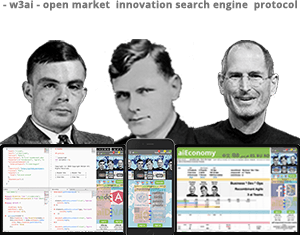
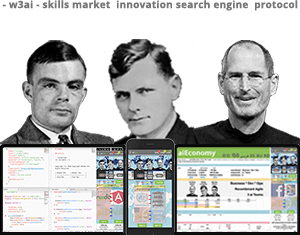
changed aiEconomy title to w3ai skills market innovation protocol

Changed region(s): [[0.03, 0.0, 1.0, 0.0596]]

diff --git a/src/app/welcome/welcome.component.html b/src/app/welcome/welcome.component.html
@@ -59,8 +59,8 @@ recombinant &nbsp; teams &nbsp; market
                 <ol class="my-bot-mob-tops" fxLayout="row" fxLayoutAlign="center center" fxLayoutGap="10px">
                     <li class="rank">projects<br><img class="rank-flag" src="/assets/flags/us.png"><br>247</li>
                     <li class="rank">teams<br><img class="rank-flag" src="/assets/flags/ca.png"><br>365</li>
-                    <li class="rank">code<br><img class="rank-flag" src="/assets/flags/js.png"><br>262</li>
-                    <li class="rank">services<br><img class="rank-flag" src="/assets/flags/gb.png"><br>190</li>
+                    <li class="rank">script<br><img class="rank-flag" src="/assets/flags/js.png"><br>262</li>
+                    <li class="rank">skills<br><img class="rank-flag" src="/assets/flags/gb.png"><br>190</li>
                 </ol>
             </li>
 
